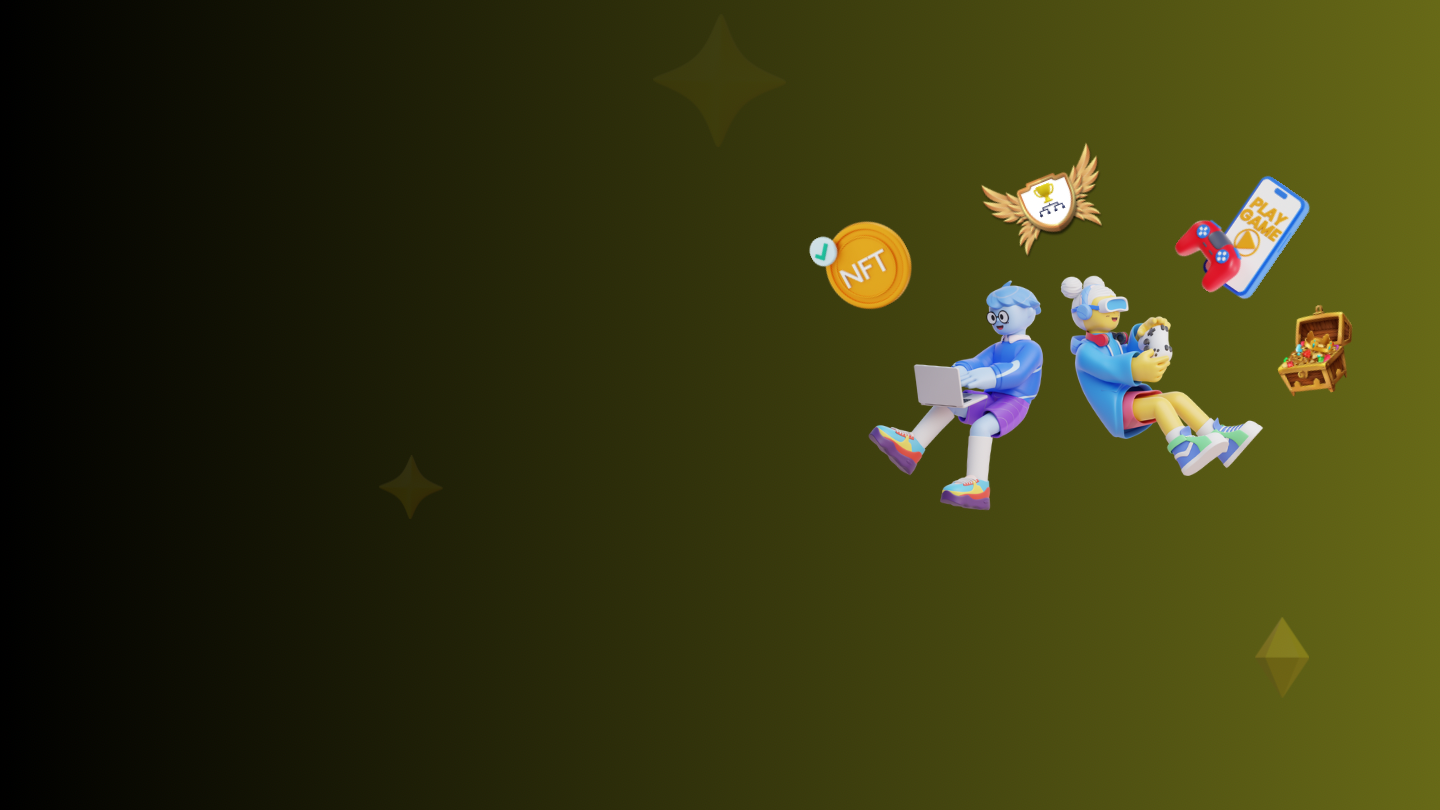
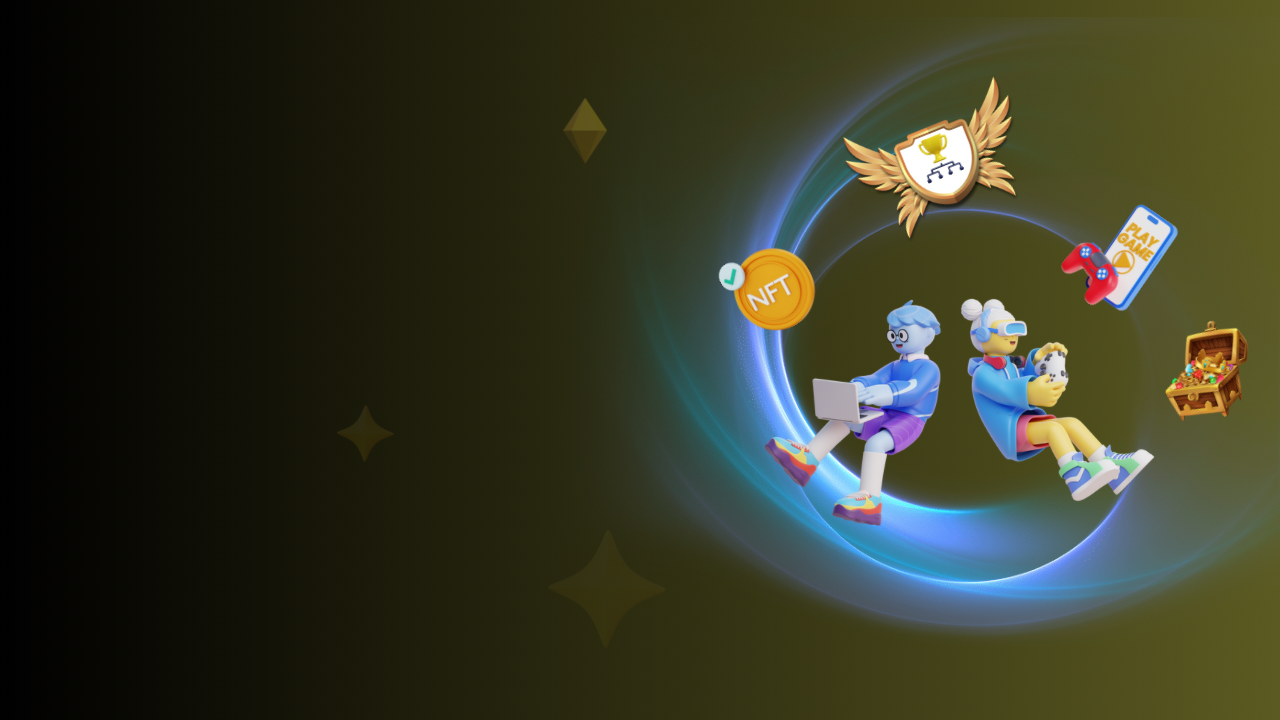
fixing *whats* page, and adding other things

Changed region(s): [[0.4688, 0.0306, 1.0, 0.8861], [0.4375, 0.1222, 0.4688, 0.2139]]

diff --git a/src/App.js b/src/App.js
@@ -53,7 +53,7 @@ function App() {
             <div className="l-wrapper">
               <Header />
               <ul className="l-main-content main-content">
-                <li className="l-section section  section--is-active" id='home-section'>
+                <li className="l-section section section--is-active" id='home-section'>
                     <div className="intro">
                       <div className="intro--banner">
                         <span> <h1>Tonamento</h1> </span>
@@ -91,7 +91,8 @@ function App() {
                   </li>
                   <li className="l-section section" id='whats-section'>
                     <div className="intro">
-                      <div className="intro--banner">
+                      <div className="intro--banner" id='what-banner'>
+                        <h5 className='text-h1'>Whats<br/>Tonamento?</h5>
                         <p>Tonamento: The First Decentralized Game Brokerage Worldwide for Stable Income!
                              In Tonamento, you can enjoy exciting mini-games while having fun and making money, meeting new friends, and sharing your skills and experiences with them.
                              Throughout the week, you can increase your rank on the leaderboard by collecting points. This will grant you permission to participate in weekly competitions, where you have the chance to win unique weekly prizes.

diff --git a/src/css/main.css b/src/css/main.css
@@ -205,7 +205,7 @@ body {
 
 .App {
     /* background: linear-gradient(#000000a8, rgba(106, 7, 255, 0.704)); */
-    background: url("../img/space8.png");
+    background: url("../img/space7.png");
     -webkit-backdrop-filter: blur(35px);
     backdrop-filter: blur(1px) drop-shadow(2px 4px 6px black);
     /* background: url("../img/bg-face.jpg"); */
@@ -217,7 +217,6 @@ body {
     -webkit-text-size-adjust: 100%;
     background-size: cover;
 }
-
 .l-viewport{
     position:relative;
     width:100%;

diff --git a/src/css/customStyle.css b/src/css/customStyle.css
@@ -137,6 +137,23 @@ span.typed-cursor {
     rotate: 45deg;
 } 
 
+#what-banner p{
+    background: #00000082;
+    border-radius: 12px;
+    backdrop-filter: blur(15px);
+    font-family: 'Montserrat';
+    font-size: 19px;
+    padding: 10px;
+}
+
+.text-h1 {
+    font-size: 70px !important;
+    font-family: 'Righteous', Courier, monospace;
+    padding: 0px !important;
+    margin: 0px !important;
+    line-height: 1.2;
+}
+
 @media (min-width: 767px){
     body {
         overflow: hidden;
